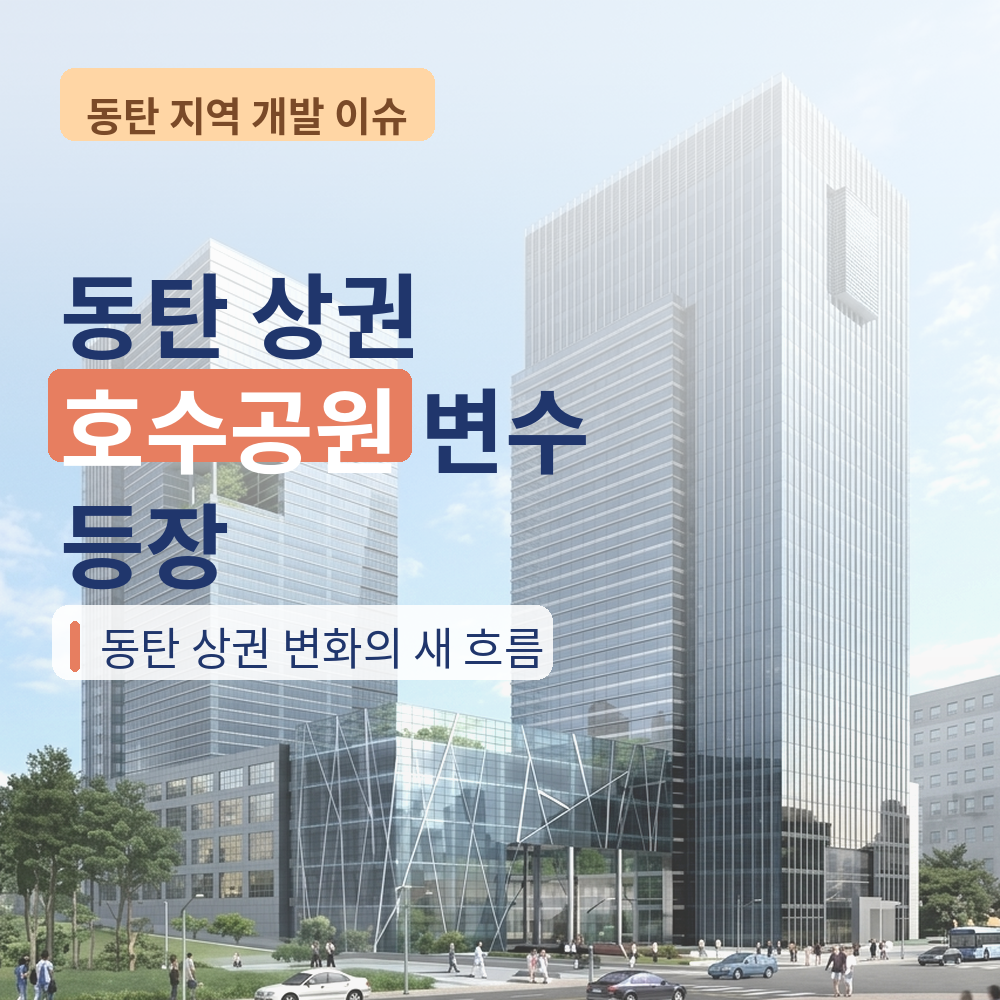
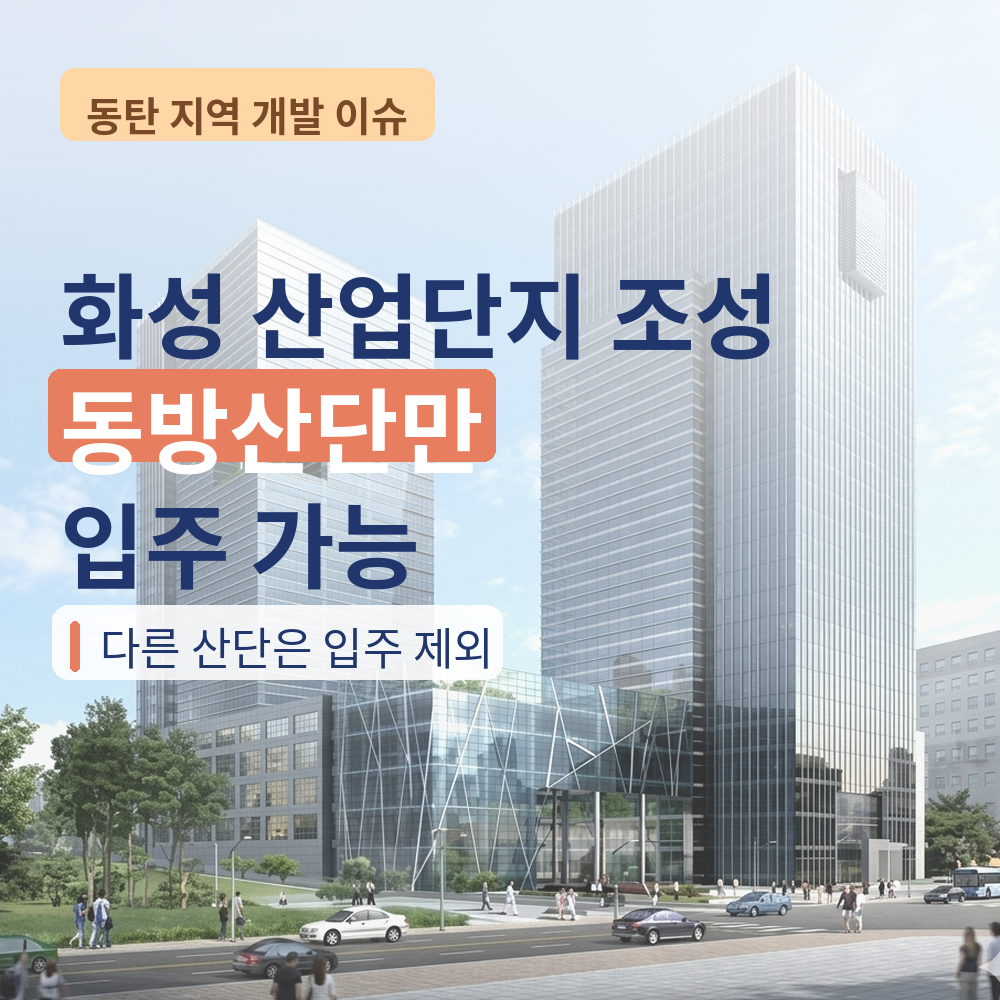
Update weekly draft state [skip ci]

diff --git a/state/draft.md b/state/draft.md
@@ -1,70 +1,66 @@
-# 동탄 상권 변화, 호수공원 인근에 새 변수
+# 화성 산업단지 조성, 동방산단만 입주 가능
 
 ## 3초 요약
-**GS THE FRESH 동탄호수공원점(가칭) 개설 예고로 동탄 상권 변화의 무대가 '호수공원 인근 근린상가'로 구체화됐다.** 호수공원 주변에 상가를 갖고 있거나 그 자리를 임차할지 고민 중인 사업주라면 지금 눈여겨볼 만한 소식이다.
+
+**화성시가 추진해온 화성 산업단지 조성 사업 중 동방산단이 2026년 10월 1일 준공인가를 받아 기업 입주가 가능한 단계로 넘어갔다**, 반면 무송·주곡 산단은 아직 보상이나 계획 확정 단계에 머물러 있다. 당장 공장·지식산업센터 부지를 알아보던 사업주라면 동방산단이 지금 눈여겨볼 유일한 선택지다.
 
 ## 지금까지의 흐름
-이번 사안은 화성시 고시·공고란에 올라온 두 건의 게시물에서 출발한다. 날짜와 내용을 순서대로 정리하면 다음과 같다.
 
-| 날짜 | 내용 |
-|---|---|
-| 2026-07-29 | [지역경제과] 준대규모점포 개설계획 예고 [GS THE FRESH 동탄호수공원점(가칭)] 게시 |
-| 2026-07-29 | [지역경제과] 같은 건에 대한 정정 공고 게시 |
-| 2026-10-08 (오늘) | 등록 전, 예고 단계 유지 중 |
+화성 산업단지 조성은 하나의 사업이 아니라 동방·무송·주곡 등 화성시 투자유치과가 각각 관리하는 개별 산업단지들의 모음이다. 고시 이력을 날짜순으로 엮으면 세 단지의 속도 차이가 뚜렷하게 드러난다.
 
-**같은 날 원공고와 정정공고가 함께 올라왔다는 점이 이 사안의 출발점이다.**
+| 날짜 | 산업단지 | 고시명 | 절차 단계 |
+|---|---|---|---|
+| 2025-10-24 | 주곡 | 계획(변경) 승인 고시 | 계획 확정 |
+| 2026-07-27 | 동방 | 계획(변경) 승인 고시 | 계획 확정 |
+| 2026-08-18 | 무송 | 계획(변경) 승인 고시 | 계획 확정 |
+| 2026-09-04 | 동방 | 관리기본계획 승인 고시 | 관리계획 확정 |
+| 2026-09-09 | 동방 | 계획(변경) 승인 고시(재고시) | 계획 확정 |
+| 2026-09-29 | 화성(전체) | 개발계획 변경(안) 주민공람 공고 | 심의 전 |
+| 2026-10-01 | 동방 | 준공인가 공고 | **완료** |
+| 2026-10-06 | 무송 | 토지수용재결신청서 열람 공고 | 보상 단계 |
 
-> 근거: 화성시 고시공고 (https://www.hscity.go.kr/www/gosi/BD_selectNoticeDetail.do?q_notAncmtMgtNo=148549 , https://www.hscity.go.kr/www/gosi/BD_selectNoticeDetail.do?q_notAncmtMgtNo=148569)
-
-[이미지: 동탄 상권 변화를 보여주는 근린상가 거리 풍경 | search: neighborhood retail street]
+[이미지: 조성이 끝난 산업단지 부지 전경 | search: industrial park construction site]
 
 ## 이번에 새로 알려진 것
-핵심은 이 공고가 **'확정'이 아니라 '예고' 단계**라는 점이다. 유통산업발전법에 따른 절차를 보면 순서가 분명하다.
 
-대규모점포등을 개설하려는 자는 영업을 시작하기 30일 전까지 지식경제부령으로 정하는 바에 따라 개설 지역 및 시기 등을 포함한 개설계획을 예고하여야 한다. 그 다음 단계로 대규모점포를 개설하거나 제13조의3에 따른 전통상업보존구역에 준대규모점포를 개설하려는 자는 영업을 시작하기 전에 산업통상부령으로 정하는 바에 따라 상권영향평가서 및 지역협력계획서를 첨부하여 특별자치시장ㆍ시장ㆍ군수ㆍ구청장에게 등록하여야 한다.
+**세 가지 사실이 이번 고시를 통해 확인됐다.**
 
-> 근거: 유통산업발전법 제8조 (https://www.law.go.kr/LSW//lsLawLinkInfo.do?lsJoLnkSeq=1000468750&lsId=001469&chrClsCd=010202&print=print)
+1. 화성시 투자유치과는 2026년 9월 9일 동방 일반산업단지계획(변경) 승인을 고시한 데 이어, 2026년 10월 1일 준공인가 공고를 냈다. 조성공사가 끝났다는 뜻이고, 이제 기업이 실제로 들어설 수 있는 단계라는 의미다.
+> 근거: 화성시 고시 제149769호(2026-09-09), 제150368호(2026-10-01) (https://www.hscity.go.kr/www/gosi/BD_selectNoticeDetail.do?q_notAncmtMgtNo=150368)
 
-즉 지금은 '예고 → 등록' 사이, 상권영향평가서가 제출되고 심사받는 단계로 봐야 한다. **아직 등록이 끝나지 않았으므로 개설 자체가 확정된 것은 아니다.**
+2. 같은 시기 무송 일반산업단지는 2026년 10월 6일 토지수용재결신청서 열람 공고가 나왔다. 수용재결은 토지 소유자와 보상 협의가 끝나지 않은 일부 필지에 대해 강제로 수용 절차를 밟는 단계로, 동방산단의 '완료' 단계와는 거리가 멀다.
+> 근거: 화성시 고시 제150377호(2026-10-06) (https://www.hscity.go.kr/www/gosi/BD_selectNoticeDetail.do?q_notAncmtMgtNo=150377)
 
-여기서 한 가지 더 확인해야 할 변수가 있다. 특별자치시장ㆍ시장ㆍ군수ㆍ구청장은 지역 유통산업의 전통과 역사를 보존하기 위하여 전통시장이나 중소벤처기업부장관이 정하는 전통상점가의 경계로부터 1킬로미터 이내의 범위에서 해당 지방자치단체의 조례로 정하는 지역을 전통상업보존구역으로 지정할 수 있다.
-
-> 근거: 유통산업발전법 제13조의3 (https://www.law.go.kr/LSW/lsLawLinkInfo.do?lsJoLnkSeq=1000372168&chrClsCd=010201)
-
-만약 호수공원 인근이 이 보존구역에 들어간다면, 특별자치시장ㆍ시장ㆍ군수ㆍ구청장은 등록 또는 변경등록을 하려는 대규모점포등의 위치가 전통상업보존구역에 있을 때에는 등록을 제한하거나 조건을 붙일 수 있다. 다만 호수공원 인근이 실제로 이 구역에 해당하는지는 화성시 고시에 별도로 명시돼야 확인되는 사안이라 현재로선 판단을 보류한다. <mark>[전통상업보존구역 해당 여부 확인 필요]</mark>
-
-## 시의회에서는 이렇게 논의됐다
-보도자료에는 잘 안 나오지만, 9월 14일 예산결산특별위원회 회의록에는 근린상권과 맞닿은 예산 이야기가 있었다. 지역화폐 발행 지원사업의 도비 115억 원이 확보되지 않아 시비로 전액 재원을 바꿔 편성했다는 내용이다.
-
-지역화폐는 동네 가게·상가 매출과 직결되는 결제 수단이다. 재원 구조가 시비 단독으로 바뀌었다는 점은 내년 이후 지원 규모가 시 재정 상황에 더 민감해질 수 있다는 뜻으로 읽힌다.
-
-> 근거: 2026-09-14 예산결산특별위원회 회의록 (https://council.hscity.go.kr/cnts/mnt/mntsViewer.php?schSn=7758)
+3. 2026년 9월 29일에는 화성 일반산업단지 개발계획 변경(안)에 대한 주민공람 공고가 다시 나왔다. 주민공람은 계획이 아직 확정되지 않았을 때 거치는 절차라, 이 구역의 조성 완료 시점은 지금 공고문만으로는 특정할 수 없다.
+> 근거: 화성시 고시 제150276호(2026-09-29) (https://www.hscity.go.kr/www/gosi/BD_selectNoticeDetail.do?q_notAncmtMgtNo=150276)
 
 ## 정해진 것과 아직 아닌 것
-**확정된 것**
-- 2026-07-29 개설계획 예고 및 정정 공고가 게시된 사실
-- 예고 단계이므로 등록 전까지는 개설이 확정되지 않는다는 절차상 원칙
 
-**아직 정해지지 않은 것**
-- 상권영향평가서·지역협력계획서 제출 및 등록 완료 시점
-- 호수공원 인근의 전통상업보존구역 지정 여부
-- 실제 영업 개시일
+**확정된 것**
+- 동방산단은 조성공사 완료, 2026-10-01 준공인가 공고로 입주 가능 단계 진입
+- 주곡·동방·무송 모두 계획(변경) 승인은 완료된 상태 (주곡 2025-10-24, 동방 2026-09-09, 무송 2026-08-18)
+
+**아직 아닌 것**
+- 무송산단 토지수용재결 결과와 보상 완료 시점
+- 화성 일반산업단지 개발계획 변경(안)의 확정 여부 및 적용 구역
+- 화성시 소관 일반산업단지 9개소를 대상으로 한 완충저류시설(화재·유해물질 유출 시 임시 저장시설) 설치사업은 2024~2028년 중기지방재정계획에 총사업비 659억 원으로 잡혀 있고, 2026년 분 66억 원 중 현재까지 집행액은 0.22억 원이다. 이는 예산 배정이지 공사 진도가 아니다.
 
 ## 이 변화가 닿는 곳
-이번 변화가 닿는 범위는 넓지 않다. **동탄호수공원을 둘러싼 근린상가, 그중에서도 식품·생필품을 취급하는 슈퍼·편의점·반찬가게 업종**이 가장 먼저 영향권에 든다. 대형 슈퍼마켓(SSM)이 들어서면 장보기 수요가 분산될 수 있고, 반대로 유동 인구 자체가 늘어 주변 상가 전체의 체감 통행량이 달라질 수도 있다.
 
-지식산업센터나 오피스 임차 수요와는 결이 다르다. 이번 사안은 '근린생활시설' 단위의 소매 업종에 한정된 이야기이고, 지식산업센터 입주사의 사무 공간 수요와는 직접 연결되지 않는다는 점을 분명히 해둔다. 다만 호수공원 인근에 상가를 보유한 사업주라면, 같은 업종 입점 여부를 화성시 고시공고란에서 직접 관리번호로 조회해볼 수 있다.
+동방산단이 입주 가능 단계에 들어섰다는 것은 산업단지 '분양 대상 기업'으로 자격이 되는 제조업체에게 먼저 영향을 준다. 산단 용지는 통상 생산시설 직접 사용 조건이 붙어 분양 대상이 제한적인데, 이 조건에 맞지 않는 중소 제조·물류 업체나 사무 중심 기업은 자연히 동탄 지식산업센터 쪽으로 수요가 흘러가는 구조다.
 
-[이미지: 대형 슈퍼마켓 진열대와 손님 | search: grocery store aisle]
+무송·주곡이 아직 보상·계획 단계라 당장 선택지가 늘어난 것은 아니다. 그만큼 동탄 기존 지식산업센터·공장형 매물에 대한 문의는 당분간 꾸준히 유지될 가능성이 있는데, 이 역시 실거래 건수로 확인해볼 사안이지 지금 단정할 수 있는 숫자는 아니다.
+
+[이미지: 공장형 업무공간 내부 | search: modern factory interior]
 
 ## 앞으로의 일정
-- 등록 신청 및 상권영향평가 심사 일정은 화성시 고시공고란에서 추가 공고로 확인되는 대로 갱신될 사안이다. <mark>[등록 예정 시점 확인 필요]</mark>
-- 화성시 고시공고란(지역경제과)에서 관리번호 148549·148569로 진행 상황을 직접 조회할 수 있다.
 
-## 더 읽어보기
-- [동탄2아이파크아파트 (동탄2신도시)](https://mat4989.tistory.com/13814989)
+- 동방산단: 준공인가(2026-10-01) 이후 분양·입주 절차는 공식 공고 추가 확인 필요 — <mark>구체적 입주 신청 일정 확인 필요</mark>
+- 무송산단: 토지수용재결 결과 발표 시점은 아직 정해지지 않았다
+- 화성 일반산업단지 개발계획 변경(안): 주민공람(2026-09-29) 이후 심의·확정 일정 미공개
 
 ## 이 주제를 고른 이유
-동탄 상권 변화는 아파트 시세나 청약 경쟁률처럼 눈에 띄는 뉴스는 아니지만, 동네 가게 하나하나의 매출과 직결되는 실질적인 변화다. 화성시 고시공고란에 조용히 올라온 공고 두 건이 호수공원 상권의 향방을 가늠하는 단서가 될 수 있어 이번 글에서 짚어봤다.
+
+동탄에서 이미 사업을 하고 있는 분이라면 '화성에 산업단지가 늘어난다'는 소식만으로는 체감이 안 된다. 어느 산단이 실제로 입주 가능한 단계인지, 어느 산단이 아직 보상도 안 끝났는지를 날짜와 고시 번호로 구분해두면 다음 확장 시점을 가늠하는 데 쓸모가 있어 이번 고시들을 정리했다.
 
 #동탄개발호재 #동탄부동산 #동탄지식산업센터 #동탄테크노밸리 #화성시개발 #동탄신도시 #동탄투자
